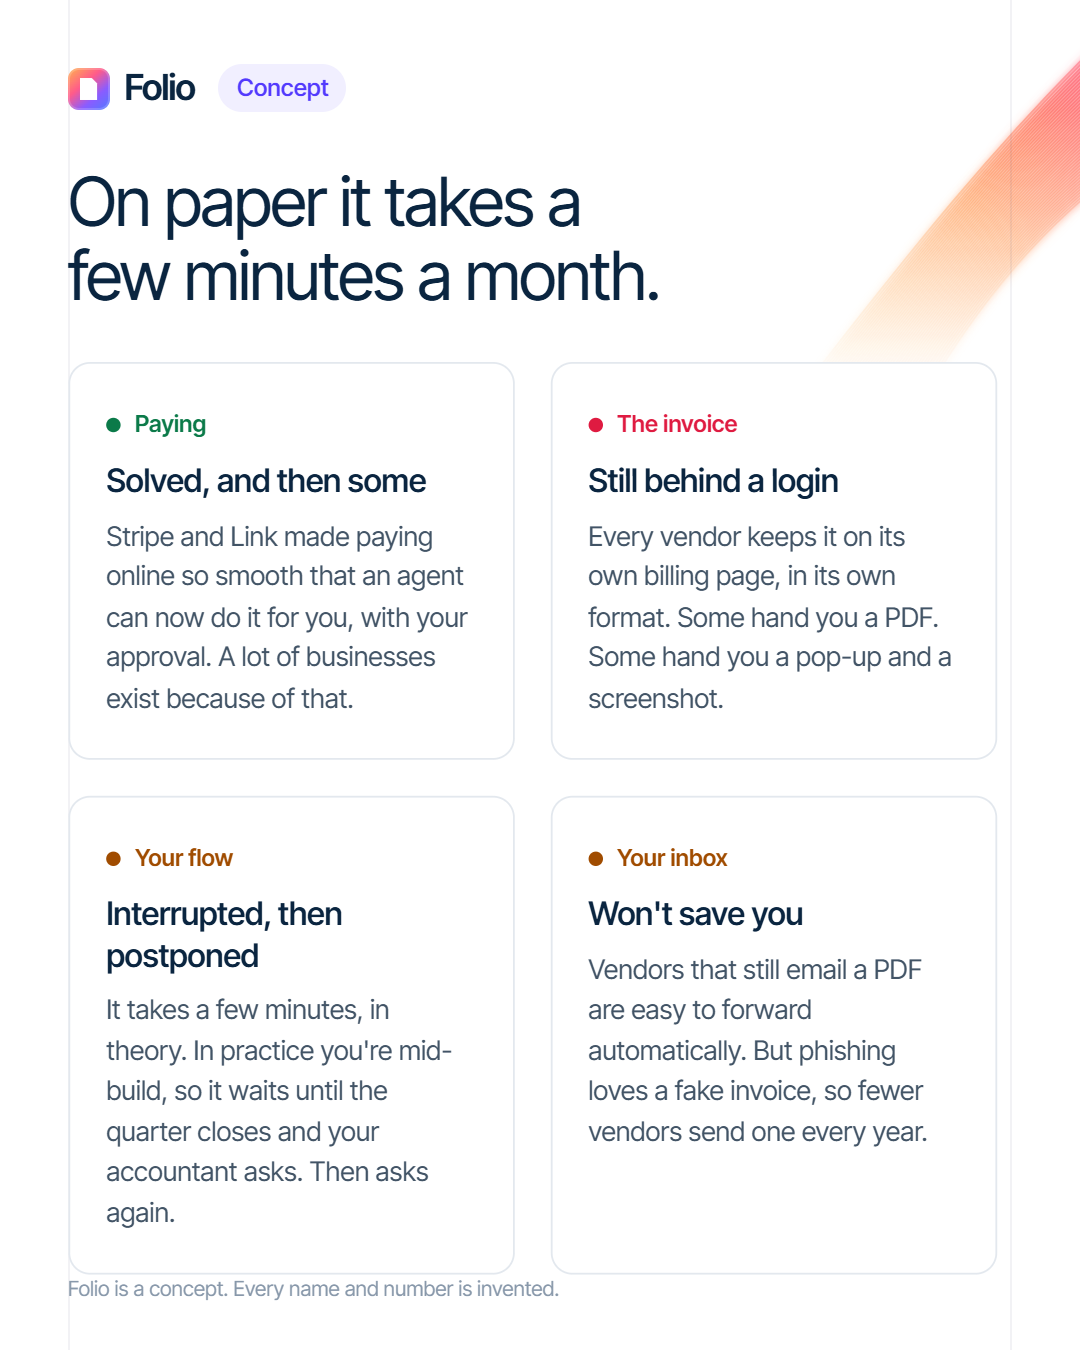
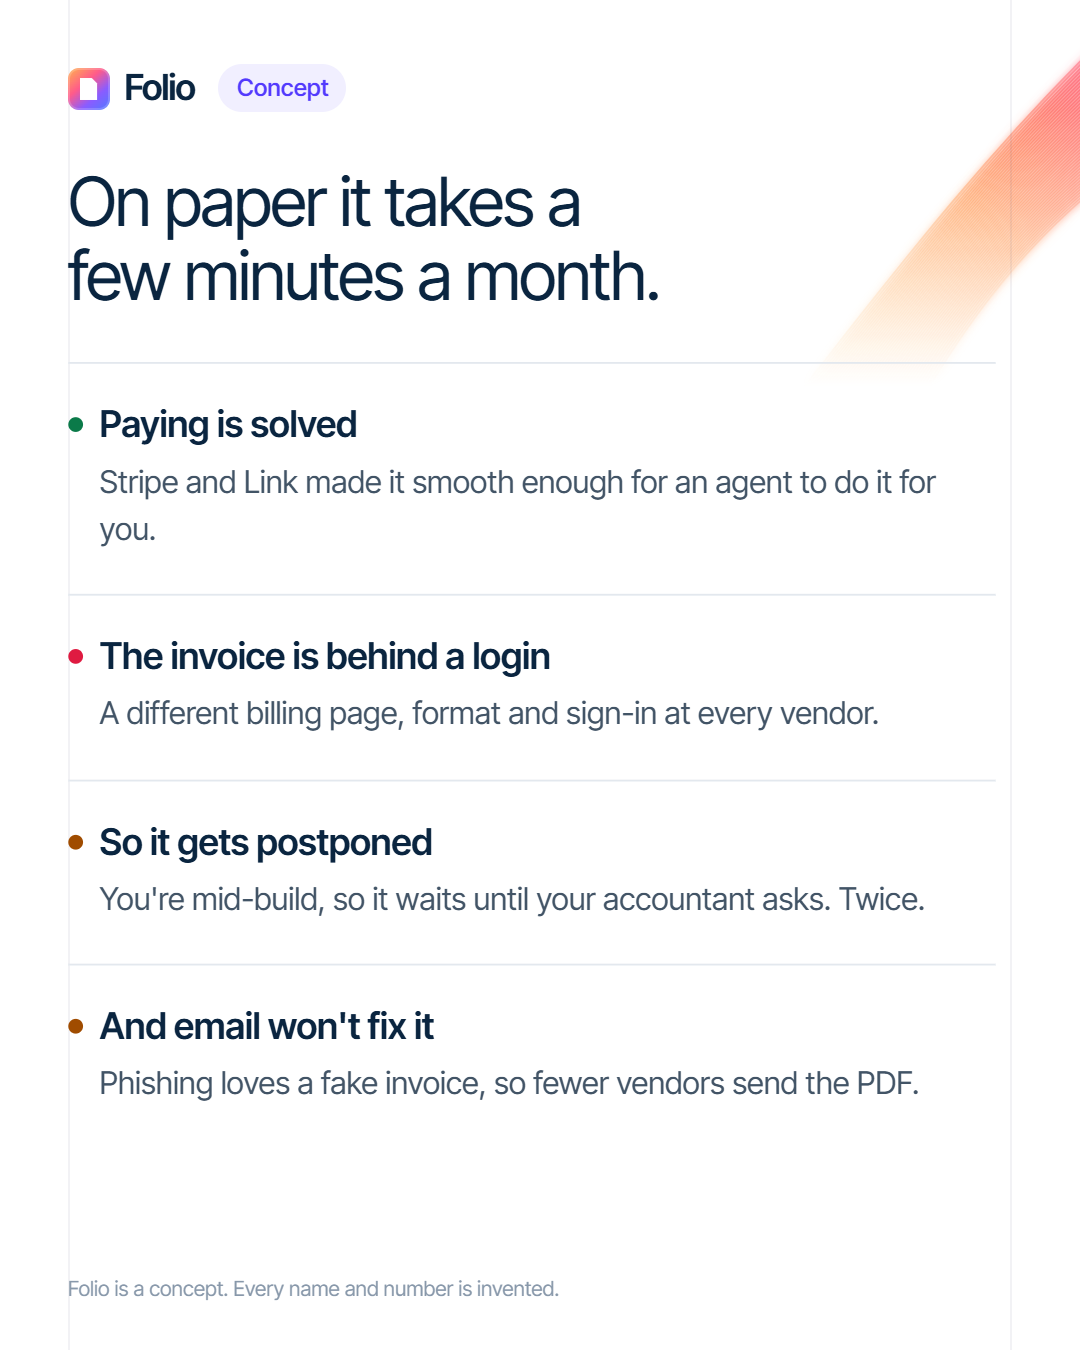
feat(folio): cut the problem's four boxed blocks to a single row of one-line steps

Changed region(s): [[0.0611, 0.28, 0.8861, 0.56], [0.0611, 0.7156, 0.8556, 0.9022], [0.0917, 0.5911, 0.8556, 0.7156]]

diff --git a/components/folio/mocks.css b/components/folio/mocks.css
@@ -783,67 +783,78 @@
   .fo-hunt__row--head span:nth-child(2), .fo-hunt__row--head span:nth-child(4) { display: none; }
 }
 
-/* ── The problem in four beats ──────────────────────────────────────── */
+/* ── The problem in four steps ──────────────────────────────────────── */
 
 .fo-beats {
   display: grid;
   grid-template-columns: repeat(4, minmax(0, 1fr));
-  gap: 20px;
+  gap: 0 32px;
   margin: 0;
   padding: 0;
   list-style: none;
 }
 
 .fo-beat {
-  padding: 20px 20px 22px;
-  background: #fff;
-  border: 1px solid var(--fo-line);
-  border-radius: 12px;
+  padding-top: 16px;
+  border-top: 1px solid var(--fo-line);
 }
-
-.fo-beat__kicker {
-  display: inline-flex;
-  align-items: center;
-  gap: 8px;
-  font-size: 13px;
-  font-weight: 600;
-  color: var(--fo-ink-3);
-}
-
-.fo-beat__kicker::before {
-  content: "";
-  width: 8px;
-  height: 8px;
-  border-radius: 50%;
-  background: currentColor;
-}
-
-.fo-beat__kicker--ok { color: var(--fo-ok); }
-.fo-beat__kicker--red { color: var(--fo-red); }
-.fo-beat__kicker--warn { color: var(--fo-warn); }
 
 .fo-beat h3 {
-  margin: 10px 0 0;
-  font-size: 18px;
-  font-weight: 550;
-  letter-spacing: -0.012em;
-  line-height: 1.25;
+  display: flex;
+  align-items: center;
+  gap: 9px;
+  margin: 0;
+  font-size: 16px;
+  font-weight: 600;
+  letter-spacing: -0.01em;
+  line-height: 1.3;
   color: var(--fo-ink);
 }
 
+.fo-beat h3::before {
+  content: "";
+  flex: none;
+  width: 8px;
+  height: 8px;
+  border-radius: 50%;
+  background: var(--dot);
+}
+
+.fo-beat--ok { --dot: var(--fo-ok); }
+.fo-beat--red { --dot: var(--fo-red); }
+.fo-beat--warn { --dot: var(--fo-warn); }
+
 .fo-beat p {
-  margin: 8px 0 0;
+  margin: 6px 0 0 17px;
   font-size: 15px;
   line-height: 1.5;
   color: var(--fo-ink-2);
 }
 
 @container (max-width: 900px) {
-  .fo-beats { grid-template-columns: repeat(2, minmax(0, 1fr)); }
+  .fo-beats { grid-template-columns: repeat(2, minmax(0, 1fr)); gap: 20px 32px; }
+}
+
+/* One column, for the social frame. */
+.fo-beats.fo-beats--stack {
+  grid-template-columns: minmax(0, 1fr);
+  gap: 22px;
+}
+
+.fo-beats--stack .fo-beat {
+  padding-top: 20px;
+}
+
+.fo-beats--stack .fo-beat h3 {
+  font-size: 20px;
+}
+
+.fo-beats--stack .fo-beat p {
+  font-size: 17px;
 }
 
 @container (max-width: 480px) {
-  .fo-beats { grid-template-columns: minmax(0, 1fr); gap: 12px; }
+  .fo-beats { grid-template-columns: minmax(0, 1fr); gap: 14px; }
 }
 
 /* ── The permission table ───────────────────────────────────────────── */

diff --git a/content/folio-copy.ts b/content/folio-copy.ts
@@ -141,26 +141,10 @@ export const problem = {
   strong: "While paying for software got easy, the invoice still waits behind a login.",
   soft: "You want to be building. The month wants you on {vendors} billing pages.",
   beats: [
-    {
-      kicker: "Paying",
-      title: "Solved, and then some",
-      text: "Stripe and Link made paying online so smooth that an agent can now do it for you, with your approval. A lot of businesses exist because of that.",
-    },
-    {
-      kicker: "The invoice",
-      title: "Still behind a login",
-      text: "Every vendor keeps it on its own billing page, in its own format. Some hand you a PDF. Some hand you a pop-up and a screenshot.",
-    },
-    {
-      kicker: "Your flow",
-      title: "Interrupted, then postponed",
-      text: "It takes a few minutes, in theory. In practice you're mid-build, so it waits until the quarter closes and your accountant asks. Then asks again.",
-    },
-    {
-      kicker: "Your inbox",
-      title: "Won't save you",
-      text: "Vendors that still email a PDF are easy to forward automatically. But phishing loves a fake invoice, so fewer vendors send one every year.",
-    },
+    { title: "Paying is solved", text: "Stripe and Link made it smooth enough for an agent to do it for you." },
+    { title: "The invoice is behind a login", text: "A different billing page, format and sign-in at every vendor." },
+    { title: "So it gets postponed", text: "You're mid-build, so it waits until your accountant asks. Twice." },
+    { title: "And email won't fix it", text: "Phishing loves a fake invoice, so fewer vendors send the PDF." },
   ],
   payTitle: "Paying for a tool",
   payCaption: "One approval, any vendor.",

diff --git a/components/folio/beats.tsx b/components/folio/beats.tsx
@@ -1,20 +1,19 @@
 import { problem } from "@/content/folio-copy";
 
 /*
- * The problem told in four beats: paying is solved, the invoice is not,
- * flow loses, and email won't rescue it. Each beat carries a status dot so
- * the row reads green, red, amber, amber at a glance.
+ * The problem in four steps, read left to right: paying is solved, the
+ * invoice is not, so it waits, and email won't rescue it. A dot, a line,
+ * a sentence; no boxes.
  */
 
 const TONE = ["ok", "red", "warn", "warn"] as const;
 
-export function Beats() {
+export function Beats({ stack = false }: { stack?: boolean }) {
   return (
     <div className="fo-mock" data-mock="beats">
-      <ol className="fo-beats">
+      <ol className={`fo-beats${stack ? " fo-beats--stack" : ""}`}>
         {problem.beats.map((b, i) => (
-          <li className="fo-beat" key={b.kicker}>
-            <span className={`fo-beat__kicker fo-beat__kicker--${TONE[i]}`}>{b.kicker}</span>
+          <li className={`fo-beat fo-beat--${TONE[i]}`} key={b.title}>
             <h3>{b.title}</h3>
             <p>{b.text}</p>
           </li>

diff --git a/components/folio/frames.tsx b/components/folio/frames.tsx
@@ -49,8 +49,8 @@ const portrait: Record<string, { title: string; scale: number; visual: ReactNode
   },
   flow: {
     title: copy.flow,
-    scale: 0.9,
-    visual: <Beats />,
+    scale: 0.92,
+    visual: <Beats stack />,
   },
   endpoint: {
     title: copy.endpoint,
